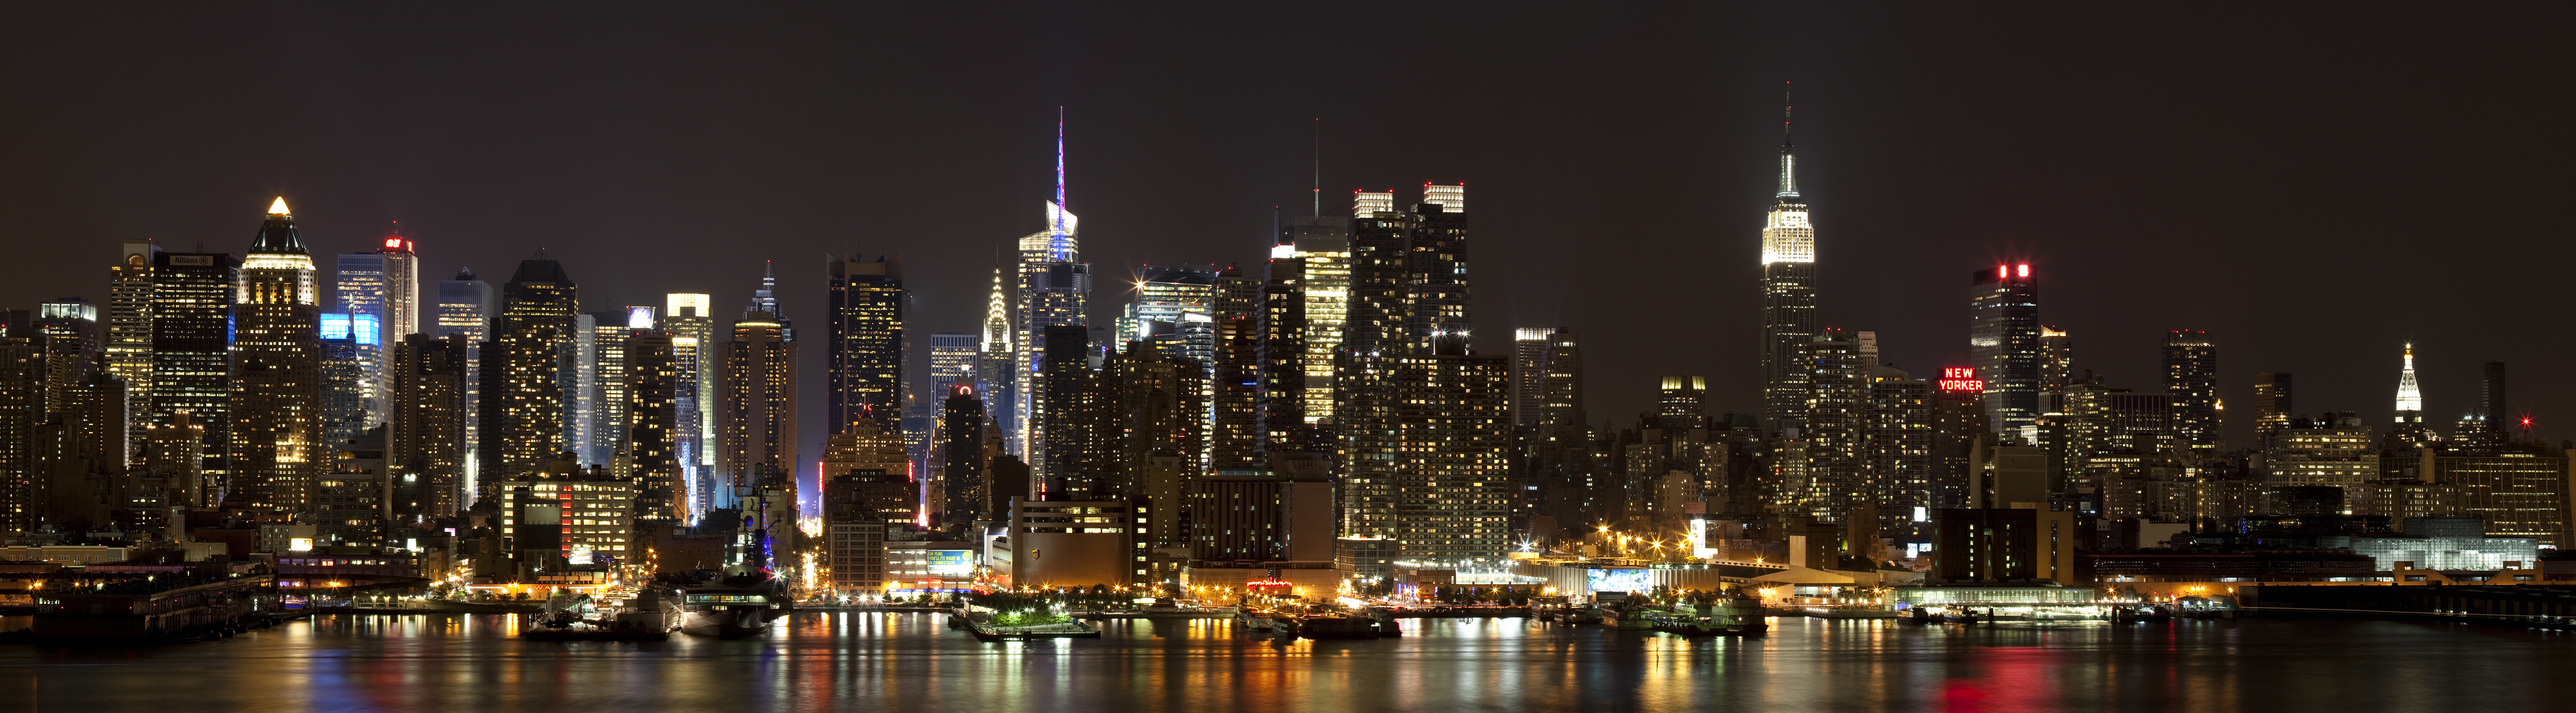
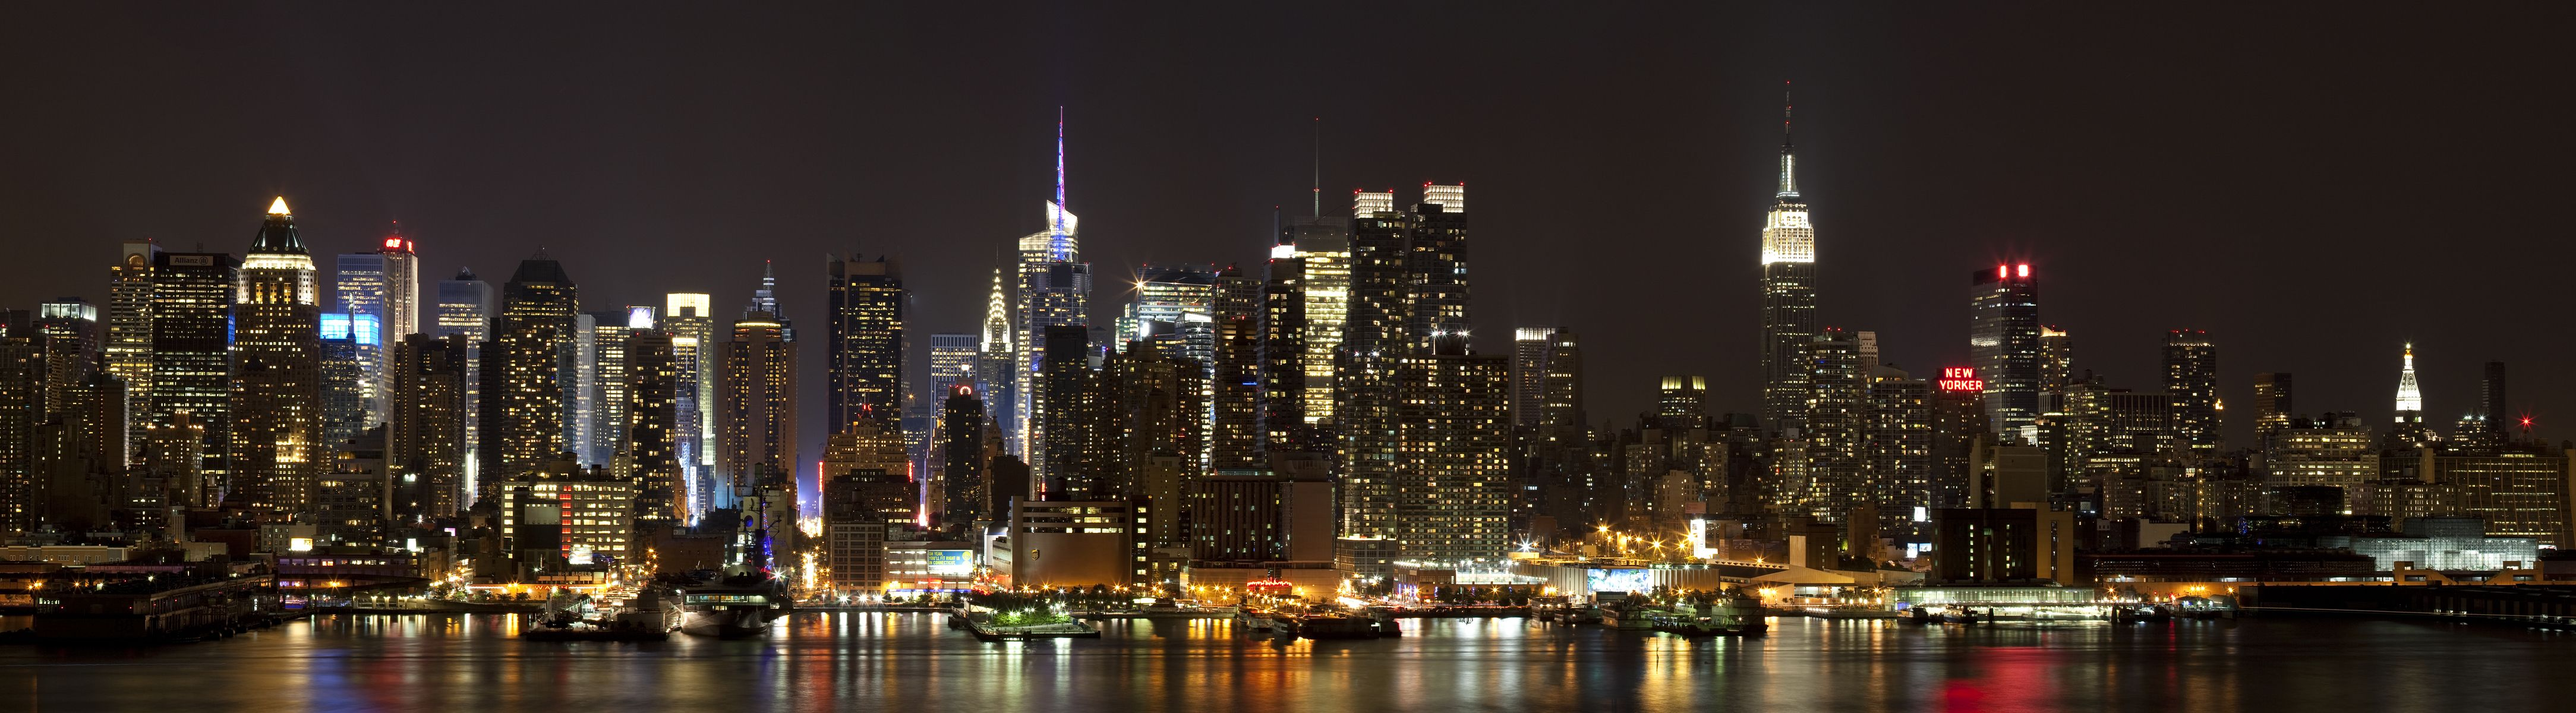
remove outline on cast member button close buttons and compress nyc background image

diff --git a/assets/css/style.css b/assets/css/style.css
@@ -102,7 +102,6 @@ body {
   position: absolute;
   background-color: transparent;
   border: transparent;
-  outline: none;
   color: rgb(255, 255, 255);
   top: -10px;
   right: 14px;
@@ -110,6 +109,11 @@ body {
 
 .cast-member-btn-close:hover {
   color: rgb(230, 230, 230);
+}
+
+.cast-member-btn-close:active,
+.cast-member-btn-close:focus {
+  outline: none;
 }
 
 /* Search Bar */
